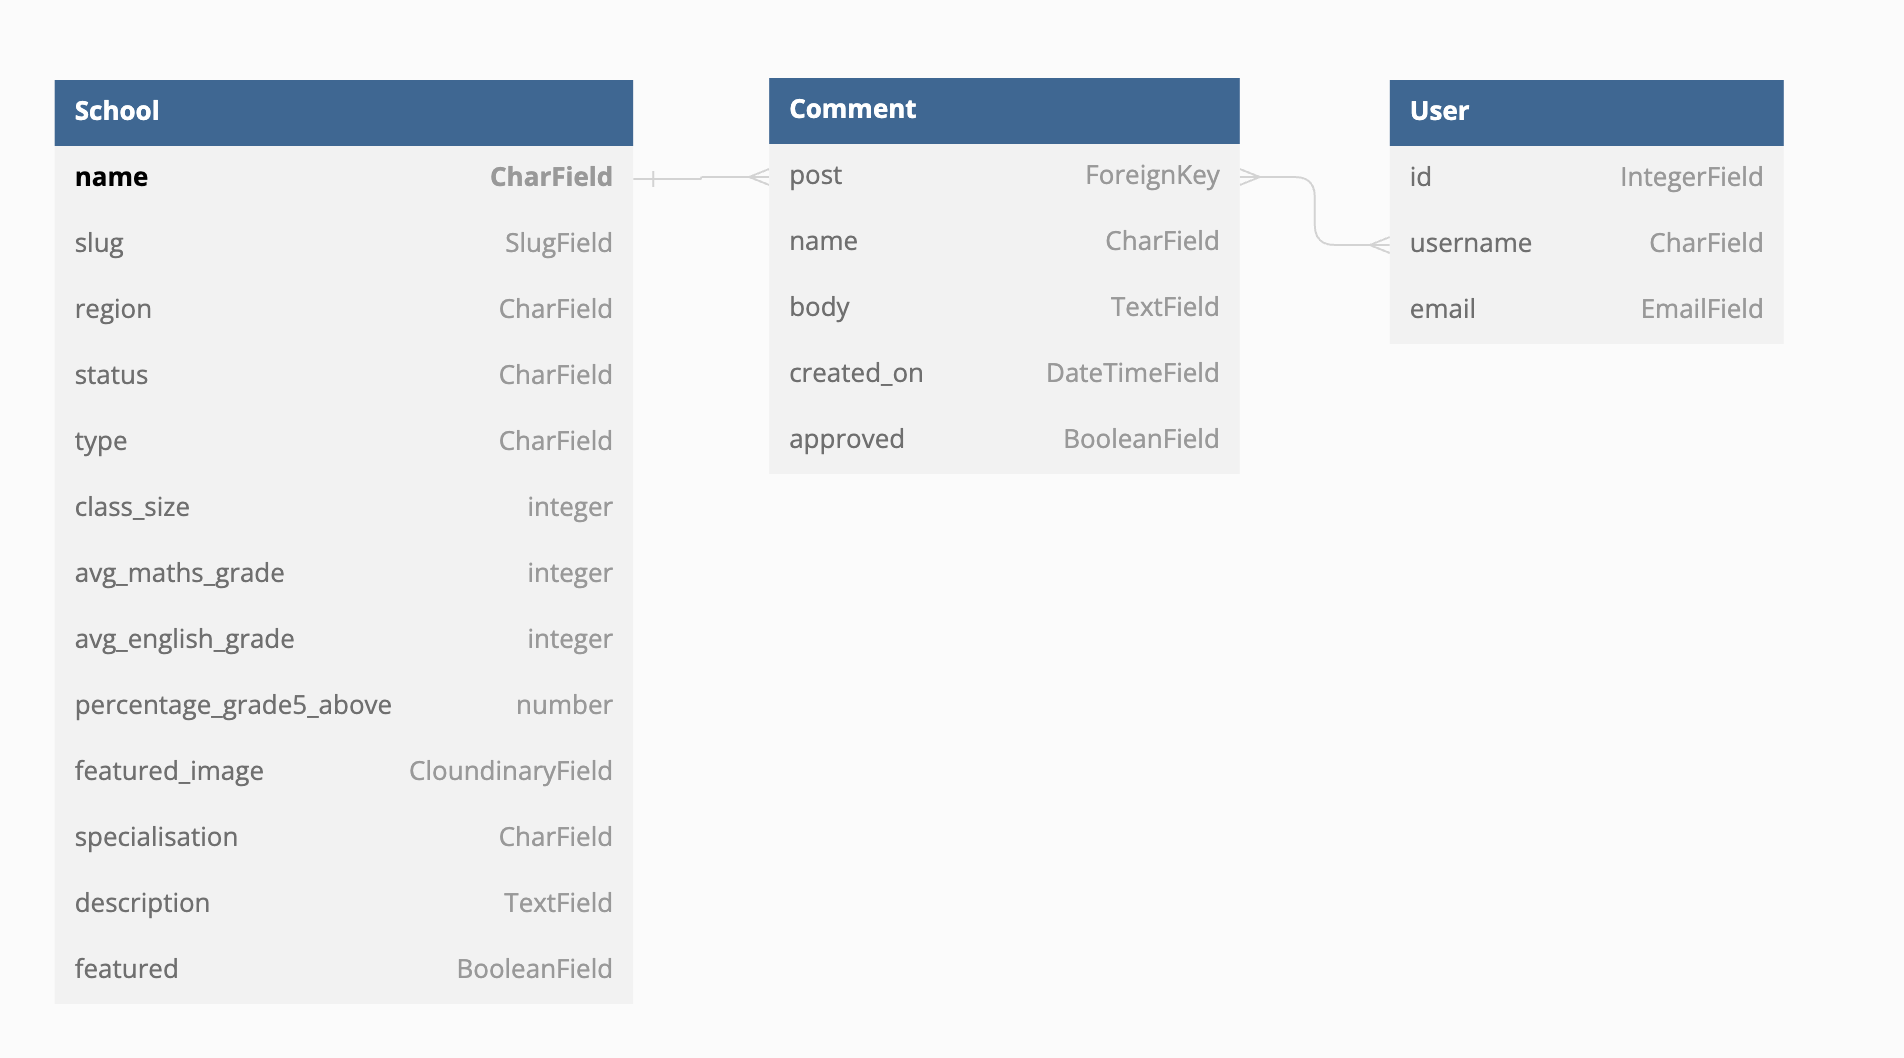
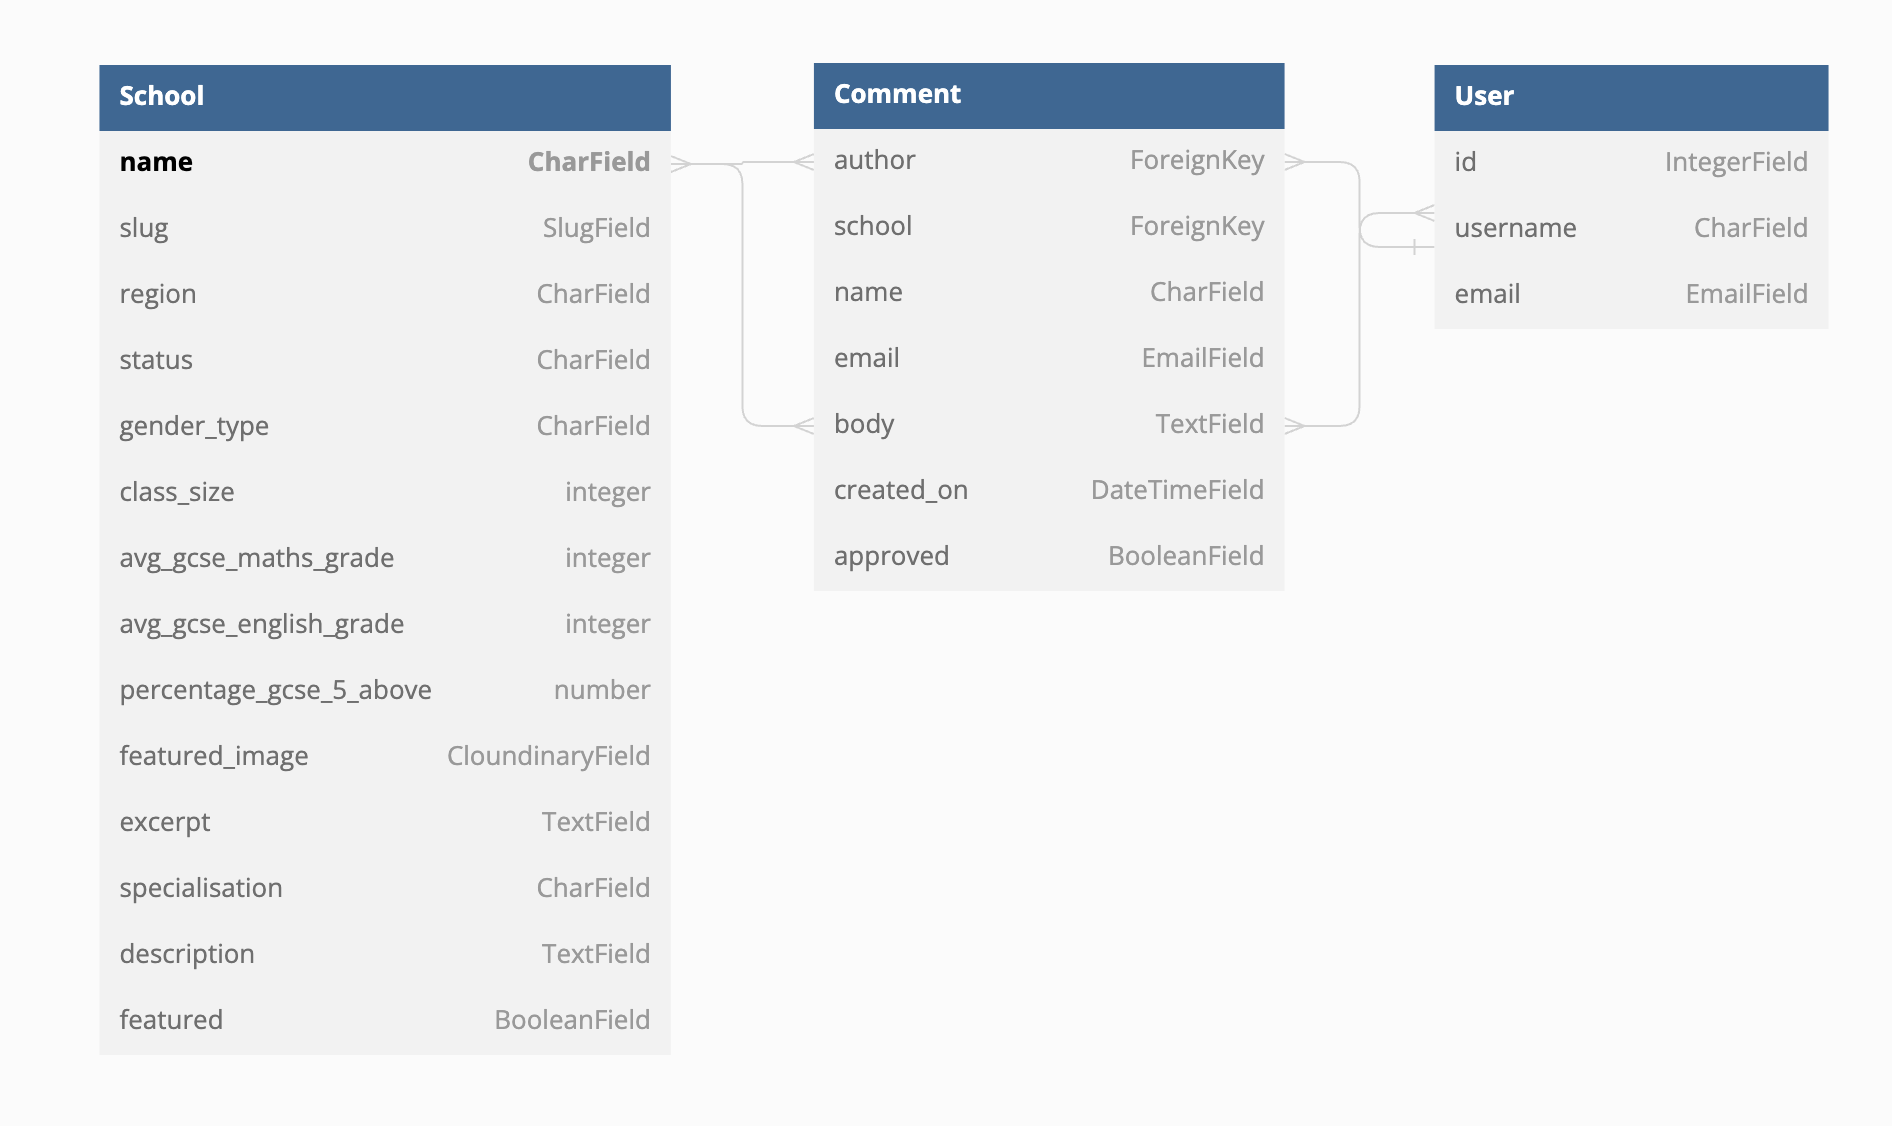
start adding testing section

diff --git a/README.md b/README.md
@@ -17,7 +17,7 @@ ClassMate has been built built using the **Django full-stack framework** and use
 This project is entirely for educational purposes only, all information included is fictional and no revenue is generated.
 
 ## Live Project 
-![View the Live Project Here](Link)
+[View the Live Project Here](Link)
 
 ---
 ## UXD - User Experience Design
@@ -60,6 +60,9 @@ These planes move from most-least abstract, with each previous one creating an o
 
 ---
 ## Scope
+
+The [ClassMate Kanban Board](https://github.com/users/georgiagrayland/projects/3) was created using GitHub projects, and was used to manage the entire planning and development process.  
+
 In order to achieve the desired user and owner goals, the following features will be included in this version of the site:
 Features included were implemented using **Agile Principles**, in the following order: 
 
@@ -77,8 +80,6 @@ Features included were implemented using **Agile Principles**, in the following 
 - Comment section on each School Detail page, where all users can view comments made by others, and logged-in users can add their own comments. 
 - Comment management page for logged-in users, where they can view all comments they have made across the site on one page. 
 -   Comment edit/delete functionality for logged-in users on their 'My Activity' page. 
-
-The [ClassMate KanBoard](https://github.com/users/georgiagrayland/projects/3) was created using GitHub projects, and was used to manage the entire planning and development process.  
 
 ---
 ## Structure
@@ -130,16 +131,16 @@ PostgreSql is used for hosting the data on this site.
 ### Comment 
 - The comment model allows (logged-in) to leave comments on individual school pages. 
 - It is connected to the School model, via the School name. 
-- It is also connected to users through each comment id. 
+- It is also connected to users through each comment id, and author's username. 
 - It allows users to leave their username and timestamp on comments for their own reference. 
-- The Comment model has full Create, Read, Update, Delete (CRUD) functionality on the front-end. 
+- The Comment model has **full Create, Read, Update, Delete (CRUD) functionality on the front-end.**
 
 ### User (Django Allauth)
-- The User database was automatically created upon installation of Djang-allauth. 
+- The User database was automatically created upon installation of Django-allauth. 
 - This is for users to log in, sign up, log out, and leave comments on School Pages. 
 - It is linked to the comment model, through the user id. 
 
-![link to database diagram](docs/images/database.png)
+![Database diagram](docs/images/database.png)
 
 --- 
 ## Skeleton

diff --git a/TESTING.md b/TESTING.md
@@ -1,1 +1,16 @@
-test of testing md
+# ClassMate | Testing 
+
+[Return to README](README.md)
+
+## Code Validation
+
+### HTML 
+All pages were run through the official [W3C HTML Validator](https://validator.w3.org/).
+This was in order to check for syntax errors or issues with rendering. 
+Please see below for the results of each page in the site: 
+
+<details>
+<summary>Homepage - No issues or errors</summary>
+<br>
+testing dropdown
+</details>
